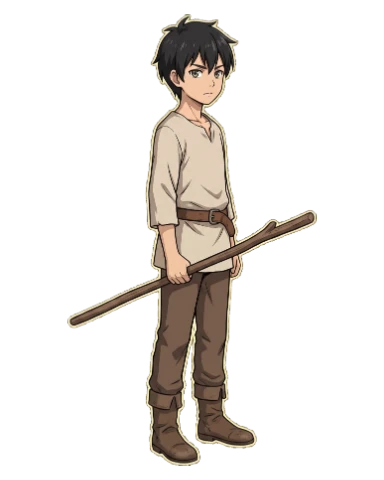
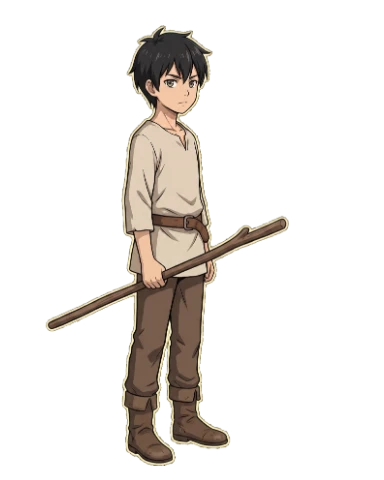
手足が動くようになった：攻撃を2コマのパラパラ漫画で再生する
いただいた「振りかぶり」「振り下ろし」の2枚を取り込み、
動きに合わせて順に切り替わるようにした。

  assets/characters/jobs/villager/battle_m.webp          ふだん
  assets/characters/jobs/villager/battle_m_attack1.webp  振りかぶり
  assets/characters/jobs/villager/battle_m_attack2.webp  振り下ろし

3枚を --group でまとめて取り込んだので、足もとの位置と大きさが揃っている。

■ 連番のコマに対応した
  ファイル名に番号を付けると、その順に切り替わる。
    battle_attack1.webp → battle_attack2.webp → ふだんの絵
  動き全体の長さをコマ数で割って切り替え、最後まで進んだら元に戻る。
  歩きに番号を付けた場合は、歩いているあいだ繰り返す。
  番号が飛んでいたら、その手前までを使う。

  build-art.js  名前の番号を読み取る
  art.js        コマをまとめて <img> に持たせ、setPose が順に差し替える
                画面が作り直されたら、残ったコマ送りを自分で止める

■ 直した不具合（私が前回入れたもの）
  sync() が1手ごとに絵を元へ戻していたため、
  差し替えた動きの絵が一瞬しか出ていなかった。
  倒れた／立ち上がった瞬間だけ触るようにした。

■ 素材の作り方に足したこと
  ・線で輪を作らない（振り抜きの光を描かない）。
    輪の内側の背景は外周から切り離されて消せなくなる。
    振り抜きの演出はゲーム側で描いている
  ・おすすめは attack の2コマ

■ テスト
  tools/art-test.js 59項目（連番のコマの節を追加）
  npm test 21項目すべて成功。リスナー・DOMの増加なし

Claude-Session: https://claude.ai/code/session_01ADqAG5EoFyhfEgCBLsFKwu

Changed region(s): [[0.125, 0.0312, 0.8438, 0.9688]]

diff --git a/src/ui/art.js b/src/ui/art.js
@@ -123,13 +123,28 @@ G.Art = {
   },
 
   /* そのキャラで用意されている動きの絵を、まとめて返す。
-   * 画面側はこれを <img> に付けておき、動くときに src を差し替える。 */
+   * 画面側はこれを <img> に付けておき、動くときに src を差し替える。
+   *
+   * 番号付き（attack1, attack2 …）があれば、その順に並べて返す。
+   * 無ければ番号なしの1枚。どちらも無ければその動きは返らない。 */
+  frames(pick) {
+    const out = [];
+    for (let i = 1; i <= 8; i++) {
+      const u = pick(i);
+      if (!u) break;
+      out.push(u);
+    }
+    if (out.length) return out;
+    const one = pick(null);
+    return one ? [one] : [];
+  },
+
   heroPoses(c, use) {
     if (!G.Art.any) return null;
     let found = null;
     for (const p of POSES) {
-      const u = G.Art.hero(c, use, p);
-      if (u) (found = found || {})[p] = u;
+      const fr = G.Art.frames(i => G.Art.hero(c, use, i ? p + i : p));
+      if (fr.length) (found = found || {})[p] = fr;
     }
     return found;
   },
@@ -165,8 +180,8 @@ G.Art = {
     if (!G.Art.any) return null;
     let found = null;
     for (const p of POSES) {
-      const u = G.Art.foe(enemyId, use, isBoss, p);
-      if (u) (found = found || {})[p] = u;
+      const fr = G.Art.frames(i => G.Art.foe(enemyId, use, isBoss, i ? p + i : p));
+      if (fr.length) (found = found || {})[p] = fr;
     }
     return found;
   },
@@ -183,8 +198,10 @@ G.Art = {
   img(url, name, extra, poses) {
     /* 動きの絵は data- に持たせておく。
      * 画面側は、どのキャラかを調べ直さずに差し替えられる。 */
+    /* コマが複数あるときは | で並べる。絵の場所に | は出てこない。 */
     const extra2 = poses
-      ? Object.keys(poses).map(k => ` data-pose-${k}="${G.util.esc(poses[k])}"`).join('')
+      ? Object.keys(poses).map(k =>
+        ` data-pose-${k}="${G.util.esc([].concat(poses[k]).join('|'))}"`).join('')
       : '';
     return `<img class="chr art ${extra || ''}" src="${url}" data-base="${G.util.esc(url)}"${extra2}`
       + ` alt="${G.util.esc(name || '')}" draggable="false">`;
@@ -192,20 +209,45 @@ G.Art = {
 
   /* ---------- 動きの絵に差し替える ---------- */
   /* cls は 'is-walk' などの画面側のクラス名。
-   * その動きの絵が無ければ何もしない（CSSの動きだけになる）。 */
-  setPose(el, cls) {
+   * その動きの絵が無ければ何もしない（CSSの動きだけになる）。
+   *
+   * ms を渡すと、その時間でコマを1周して最後の絵で止まる（攻撃など）。
+   * 渡さないと、コマを繰り返し続ける（歩きなど）。 */
+  setPose(el, cls, ms) {
     if (!el || el.tagName !== 'IMG' || !el.dataset) return false;
     const pose = CLASS_POSE[cls];
-    const url = pose && el.dataset['pose' + pose.charAt(0).toUpperCase() + pose.slice(1)];
-    if (!url) return false;
-    el.src = url;
+    const raw = pose && el.dataset['pose' + pose.charAt(0).toUpperCase() + pose.slice(1)];
+    if (!raw) return false;
+
+    G.Art._stopFrames(el);
+    const urls = raw.split('|');
+    el.src = urls[0];
+    if (urls.length < 2) return true;
+
+    const step = Math.max(70, (ms || 480) / urls.length);
+    let i = 0;
+    el._poseTimer = setInterval(() => {
+      /* 画面が作り直されて、この絵がもう使われていないなら止める */
+      if (!el.isConnected) { G.Art._stopFrames(el); return; }
+      i++;
+      if (i >= urls.length) {
+        if (ms) { G.Art._stopFrames(el); return; }   // 1周して止める
+        i = 0;                                        // 繰り返す
+      }
+      el.src = urls[i];
+    }, step);
     return true;
+  },
+
+  _stopFrames(el) {
+    if (el && el._poseTimer) { clearInterval(el._poseTimer); el._poseTimer = null; }
   },
 
   /* もとの絵に戻す */
   clearPose(el) {
-    if (!el || el.tagName !== 'IMG' || !el.dataset || !el.dataset.base) return;
-    if (el.src !== el.dataset.base) el.src = el.dataset.base;
+    if (!el || el.tagName !== 'IMG' || !el.dataset) return;
+    G.Art._stopFrames(el);
+    if (el.dataset.base && el.src !== el.dataset.base) el.src = el.dataset.base;
   },
 };
 

diff --git a/tools/art-import.js b/tools/art-import.js
@@ -100,16 +100,18 @@ function cut({ url }) {
       push(x + 1, y); push(x - 1, y); push(x, y + 1); push(x, y - 1);
     }
 
-    /* ※ 剣の軌跡のように線が輪を作っていると、その内側の背景は
-     *    外周から繋がっていないので、ここでは消えずに残る。
+    /* ※ 振り上げた腕と頭の間や、光の輪の内側のように、
+     *    線が輪を作っている場所の背景は、外周から繋がっていないので
+     *    ここでは消えずに残る。
      *
-     *    色や模様から機械的に見分ける方法を試したが、
-     *    黒い髪が市松模様の暗い升と見分けられず、髪が削れてしまった。
-     *    JPEGには透明の情報が無いため、確実な手立てがない。
+     *    模様を機械的に見分ける方法を3通り試したが、どれも駄目だった。
+     *      升目の色で判定      → 黒い髪が暗い升と同じ色で、髪が削れる
+     *      明暗のばらつきで判定 → 髪の輪郭のざらつきを模様と誤判定する
+     *      升ごとの明暗の交代で判定 → 襟やベルトの陰影を模様と誤判定する
+     *    JPEGには透明の情報が無いので、確実な手立てがない。
      *
-     *    元の画像を「透過PNG」で書き出してもらえば、この問題は起きない。
-     *    市松模様はもともと「ここは透明」という表示なので、
-     *    PNGで保存すれば本当に透明な状態で受け取れる。 */
+     *    絵を作るときに、線で輪を作らない（振り抜きの光を描かない）と
+     *    この問題は起きない。振り抜きの演出はゲーム側で描いている。 */
 
     /* 境目の暗い縁取りを削る。
      * 切り口をそのまま残すと、キャラの周りに黒い線が出る。 */

diff --git a/tools/art-test.js b/tools/art-test.js
@@ -266,6 +266,36 @@ try {
     check(fp && fp.hurt && !fp.walk, '敵も用意した動きだけ返る');
   }
 
+  /* 番号を付けると、その順に切り替わる */
+  put('jobs/ninja/battle_m.png');              // ふだんの絵（これが無いとSVGのまま）
+  put('jobs/ninja/battle_m_attack1.png');
+  put('jobs/ninja/battle_m_attack2.png');
+  put('jobs/ninja/battle_m_attack3.png');
+  put('jobs/ninja/battle_m_attack5.png');      // 4 が無いので、ここから先は拾わない
+  {
+    const G = fresh(build());
+    G.State.newGame('テスト', 'normal');
+    const c = G.State.d.player;
+    c.jobId = 'ninja'; c.look = { sex: 'm' };
+    const fr = G.Art.heroPoses(c, 'battle').attack;
+    check(fr.length === 3, `番号の順に並ぶ（${fr.length}コマ）`,
+      fr.map(u => u.split('/').pop()).join(' '));
+    check(/attack1\.png$/.test(fr[0]) && /attack3\.png$/.test(fr[2]), '1から順に並ぶ');
+    check(!fr.some(u => /attack5/.test(u)), '番号が飛んだら、その先は拾わない');
+
+    const html = G.Sprite.hero(c, 'battle');
+    check((html.match(/\|/g) || []).length === 2, '絵のタグに3コマが並ぶ');
+
+    /* コマ送りの差し替え（画面が無いので最低限の作り物で試す） */
+    const el = { tagName: 'IMG', src: 'b.png', isConnected: true,
+      dataset: { base: 'b.png', poseAttack: '1.png|2.png|3.png' } };
+    G.Art.setPose(el, 'is-attack', 300);
+    check(el.src === '1.png', 'まず1コマ目になる');
+    check(!!el._poseTimer, 'コマ送りが動き出す');
+    G.Art.clearPose(el);
+    check(!el._poseTimer && el.src === 'b.png', '止めるとコマ送りも終わり、元の絵に戻る');
+  }
+
   /* ---------- 5b. まとめて取り込むと位置と大きさが揃う ---------- */
   console.log('\n▼ 6. まとめて取り込む（--group）\n');
   {

diff --git a/tools/build-art.js b/tools/build-art.js
@@ -35,10 +35,16 @@ const USES = ['battle', 'field', 'portrait', 'face'];
  *   battle_walk.webp     歩いているところ
  *   battle_attack.webp   武器を振っているところ
  *   battle_cast.webp     詠唱しているところ
- *   battle_hurt.webp     けぞっているところ
+ *   battle_hurt.webp     のけぞっているところ
  *   battle_down.webp     倒れているところ
- * 男女があるときは battle_m_walk.webp のように並べる。 */
+ * 男女があるときは battle_m_walk.webp のように並べる。
+ *
+ * 番号を付けると、その順に切り替わる（パラパラ漫画になる）。
+ *   battle_attack1.webp  振りかぶり
+ *   battle_attack2.webp  振り下ろし
+ * 1から順に、間を空けずに並べること（1,2,3…）。 */
 const POSES = ['walk', 'attack', 'cast', 'hurt', 'down'];
+const POSE_RE = new RegExp('^(' + POSES.join('|') + ')([1-9])?$');
 const EXT = { '.webp': 'image/webp', '.png': 'image/png', '.jpg': 'image/jpeg', '.jpeg': 'image/jpeg' };
 
 /* 1ファイル版に入れる用途。
@@ -65,7 +71,7 @@ function parseName(base) {
   const r = { use, sex: null, job: null, pose: null };
   for (const t of parts) {
     if (t === 'm' || t === 'f') { if (r.sex) return null; r.sex = t; continue; }
-    if (POSES.includes(t)) { if (r.pose) return null; r.pose = t; continue; }
+    if (POSE_RE.test(t)) { if (r.pose) return null; r.pose = t; continue; }
     if (r.job) return null;                 // 職名は1つだけ
     r.job = t;
   }

diff --git a/src/ui/screen_battle.js b/src/ui/screen_battle.js
@@ -154,8 +154,16 @@ G.BattleUI = {
       const chr = el.querySelector('.chr');
       if (chr) {
         chr.classList.toggle('is-down', dead);
-        /* 倒れている絵があれば使う。立ち上がったら元に戻す。 */
-        if (G.Art) { if (dead) G.Art.setPose(chr, 'is-down'); else G.Art.clearPose(chr); }
+        /* 倒れている絵があれば使う。立ち上がったら元に戻す。
+         *
+         * sync() は1手ごとに何度も呼ばれる。
+         * ここで無条件に元へ戻すと、攻撃の絵に差し替えた直後に
+         * 戻されてしまい、動きの絵が一瞬しか出ない。
+         * 倒れた／立ち上がった瞬間だけ触る。 */
+        if (G.Art) {
+          if (dead && !chr._downPose) { chr._downPose = !!G.Art.setPose(chr, 'is-down'); }
+          else if (!dead && chr._downPose) { G.Art.clearPose(chr); chr._downPose = false; }
+        }
       }
     }
 
@@ -205,7 +213,7 @@ G.BattleUI = {
     el.classList.add(cls);
     /* その動きの絵（画像）が用意されていれば差し替える。
      * 無ければ体ごとを動かすCSSだけが効く。 */
-    const swapped = G.Art && G.Art.setPose(el, cls);
+    const swapped = G.Art && G.Art.setPose(el, cls, ms);
     setTimeout(() => {
       el.classList.remove(cls);
       if (swapped) G.Art.clearPose(el);

diff --git a/src/data/art.js b/src/data/art.js
@@ -14,4 +14,6 @@ G.ART_MANIFEST = {
   "companion/velt/battle": "assets/characters/companions/velt/battle.webp",
   "job/villager/battle_f": "assets/characters/jobs/villager/battle_f.webp",
   "job/villager/battle_m": "assets/characters/jobs/villager/battle_m.webp",
+  "job/villager/battle_m:attack1": "assets/characters/jobs/villager/battle_m_attack1.webp",
+  "job/villager/battle_m:attack2": "assets/characters/jobs/villager/battle_m_attack2.webp",
 };

diff --git a/assets/characters/README.md b/assets/characters/README.md
@@ -97,9 +97,25 @@ battle_down.webp     倒れているところ
 
 男女があるときは `battle_m_walk.webp` のように並べます。
 
+**番号を付けると、その順に切り替わります（パラパラ漫画になります）。**
+
+```
+battle_m_attack1.webp   振りかぶり
+battle_m_attack2.webp   振り下ろし
+```
+
+1から順に、間を空けずに並べてください（1, 2, 3…）。
+攻撃の動き全体（およそ0.5秒）をコマ数で割って切り替わり、
+最後のコマまで進んだらふだんの絵に戻ります。
+歩きに番号を付けた場合は、歩いているあいだ繰り返します。
+
 **作るときのお願い**
 
-- **透過PNGで書き出してください（いちばん大事）。**
+- **線で輪を作らないでください。**
+  振り抜きの光の輪を描くと、その内側の背景が外周から切り離されて消せなくなります。
+  振り抜きの演出（斬撃の線・閃光・技名）は**ゲーム側で描いています**ので、
+  絵に入れると二重になります
+- **透過PNGで書き出してください。**
   生成した画面に市松模様が見えていれば、それは「ここは透明」という表示です。
   JPEGで保存すると、その模様が絵に焼き付いてしまいます。
   外周の模様はこちらで消せますが、**光の輪のように線が輪を作っていると、
@@ -114,8 +130,8 @@ battle_down.webp     倒れているところ
 - 生成AIに頼むときは、ふだんの絵を渡して
   「この人物のまま、歩いている姿」と指定すると揃いやすくなります
 
-**おすすめは `attack` の1枚だけ**です。戦闘で一番よく見える動きで、
-効果が大きいわりに枚数が少なくて済みます。
+**おすすめは `attack` の2コマ**（振りかぶり・振り下ろし）です。
+戦闘で一番よく見える動きで、2枚で十分それらしく動きます。
 
 ## 武器について
 
